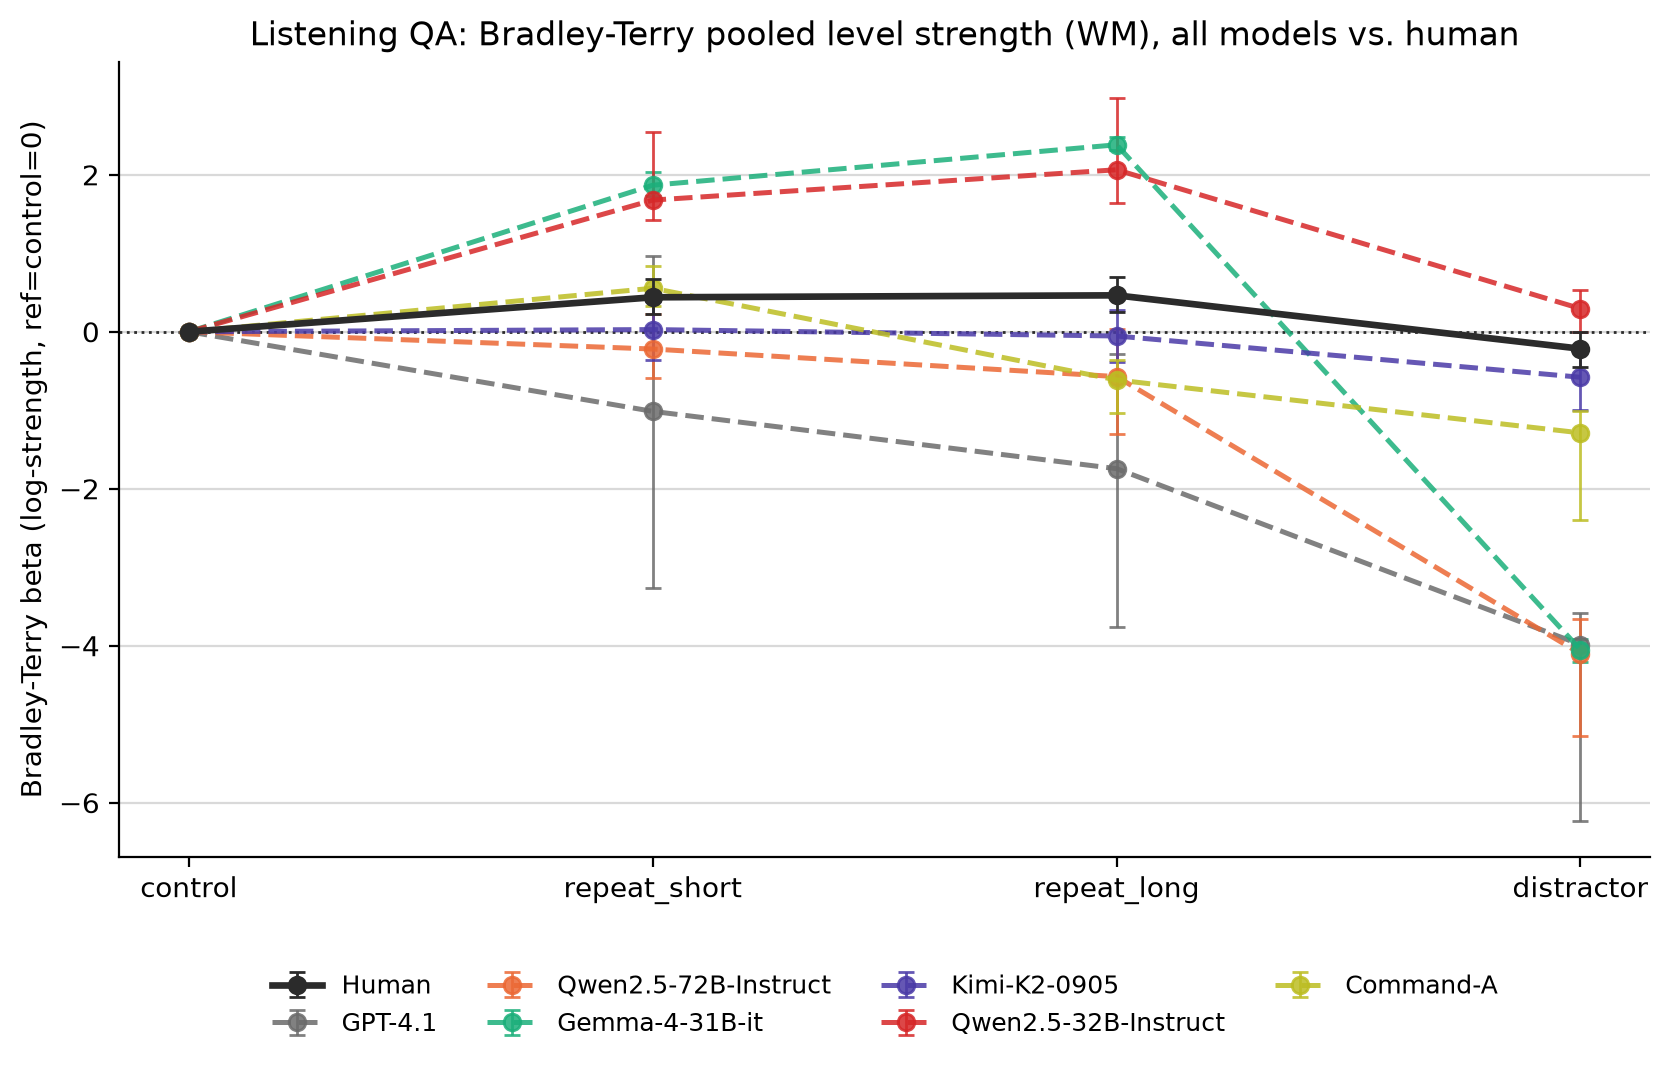
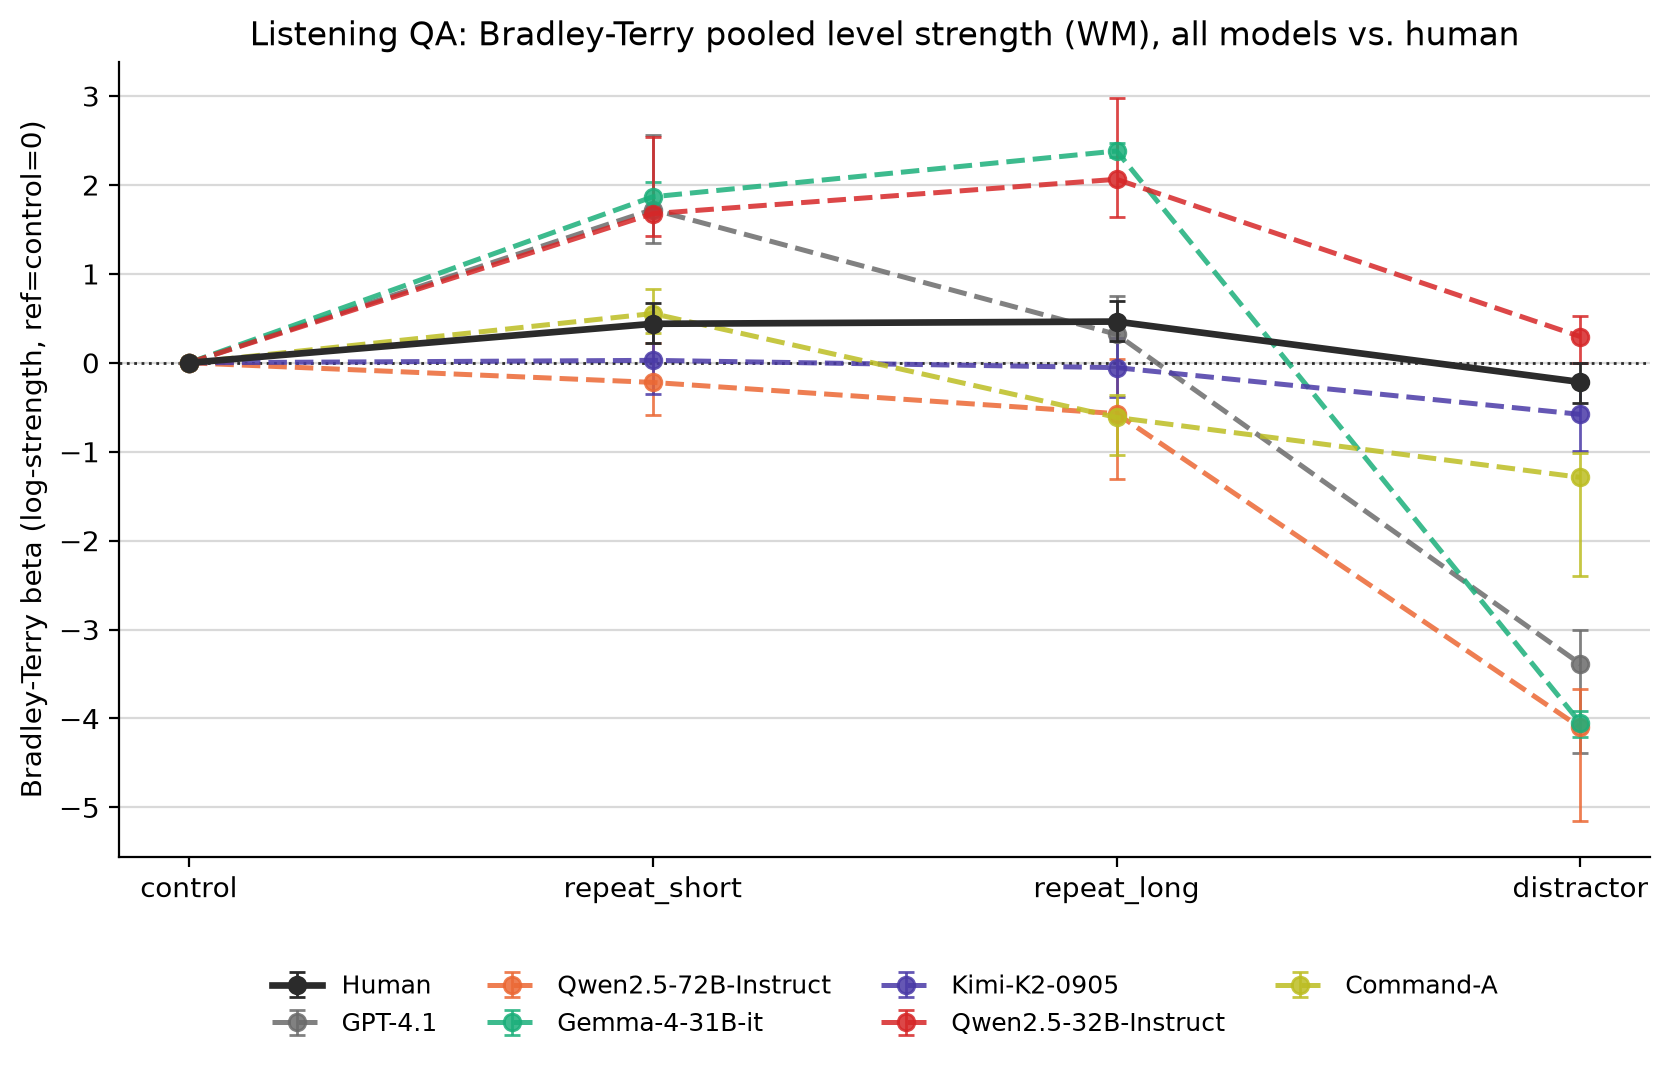
Add hierarchical Bayesian BT (partial pooling); bump GPT-4.1 WM default to n=20
New: application/listening_qa/bayesian_bt_level_strength.py -- proper
hierarchical Bradley-Terry with partial pooling across topics (each topic gets
its own beta_topic_level, drawn from a shared Normal(beta_global_level, tau)
prior with tau estimated from the data), fit via PyMC/NUTS. Unlike the earlier
full-pooling WLS+bootstrap version, this correctly propagates topic-to-topic
heterogeneity (tau) into the credible interval on beta_global, rather than
only accounting for per-comparison sampling noise.

Diagnosed why credible intervals were wide: tau (topic heterogeneity) is 3-24x
larger for every model than for human, and per-comparison noise (sigma_obs) is
similarly inflated -- confirmed nearly all 6 models are already within ~20% of
their tau-floor CI width, so more samples/cell would buy little (this is a
topic-heterogeneity problem, not a sampling problem) for the 5 models already
at n=20. GPT-4.1's WM run was the outlier at n=3 and had the most headroom;
its default path now points to the n=20 rerun (n20_stream_sentence_cap30),
which flips its repeat_short/repeat_long point estimates from disagreeing with
human direction (n=3, likely small-sample noise) to agreeing with it (n=20) --
propagated to plot_listening_qa_alignment_slopeplots.py's MODELS list, which
several other comparison scripts import, and regenerated all downstream plots.

Claude-Session: https://claude.ai/code/session_01MUstYkbzcGijHmqYVCh4C7

diff --git a/application/listening_qa/bayesian_bt_level_strength.py b/application/listening_qa/bayesian_bt_level_strength.py
@@ -1,0 +1,203 @@
+#!/usr/bin/env python3
+"""Hierarchical (partial-pooling) Bayesian Bradley-Terry level strength.
+
+``bradley_terry_level_strength.fit_bt_strengths`` does FULL pooling: one
+beta_level shared exactly across all 4 topics, fit by weighted least squares,
+with uncertainty from a nonparametric bootstrap bolted on afterward.
+
+This module instead fits a proper hierarchical model with PARTIAL pooling:
+each topic gets its own beta_topic_level, drawn from a shared Normal prior
+centered on a global beta_level with learned spread tau --
+
+    beta_global_level ~ Normal(0, 2)                      (per level, ref=0)
+    tau               ~ HalfNormal(1)                      (shared)
+    beta_topic_level  ~ Normal(beta_global_level, tau)      (per topic x level)
+    logit(PS_topic(i,j)) ~ Normal(beta_topic_i - beta_topic_j, sigma_obs / sqrt(weight))
+
+Topics with more/cleaner data pull tau's implied shrinkage less; sparse or
+noisy topics get pulled harder toward the shared beta_global. tau itself is
+estimated from the data, so the amount of pooling is adaptive rather than
+fixed like the "full pooling" (one shared value) vs "no pooling" (independent
+per-topic fits) extremes.
+
+Returns posterior mean beta_global_level + 95% credible interval (highest
+density interval isn't computed here for simplicity -- percentile interval).
+
+Usage:
+    python -m application.listening_qa.bayesian_bt_level_strength
+"""
+from __future__ import annotations
+
+import json
+from datetime import datetime, timezone
+from itertools import combinations
+from pathlib import Path
+from typing import Any
+
+import numpy as np
+import pymc as pm
+import pytensor.tensor as pt
+
+from .bradley_terry_level_strength import PS_CLIP, REFERENCE_LEVEL, _ps_and_weight
+from .level_pair_preference_alignment import (
+    CONDITIONS,
+    DEFAULT_HUMAN_CSV,
+    LEVELS,
+    load_human_topic_level_accuracies,
+    load_llm_topic_level_condition,
+)
+from .mean_level_pair_alignment import DEFAULT_STANDALONE_JSONL, DEFAULT_WM_JSONL
+
+REPO_ROOT = Path(__file__).resolve().parents[2]
+
+
+def _logit(p: float) -> float:
+    p = min(max(p, PS_CLIP), 1.0 - PS_CLIP)
+    return float(np.log(p / (1.0 - p)))
+
+
+def fit_bt_strengths_bayesian(
+    topic_level_values: dict[str, dict[str, list[float]]],
+    topics: list[str],
+    *,
+    levels: tuple[str, ...] = LEVELS,
+    reference_level: str = REFERENCE_LEVEL,
+    draws: int = 1000,
+    tune: int = 1000,
+    chains: int = 2,
+    seed: int = 42,
+    return_hyperparams: bool = False,
+) -> tuple[dict[str, float], dict[str, tuple[float, float]]] | tuple[dict[str, float], dict[str, tuple[float, float]], dict[str, float]] | None:
+    """Partial-pooling hierarchical Bradley-Terry fit. Returns
+    (posterior_mean_beta_global, 95%_credible_interval) per level, or None if
+    there isn't enough data to build any comparison rows. If
+    ``return_hyperparams``, also returns a dict with posterior means of
+    ``tau`` (topic-to-topic spread) and ``sigma_obs`` (per-comparison noise
+    scale) -- diagnostic for what's driving a wide/narrow credible interval."""
+    free_levels = [lv for lv in levels if lv != reference_level]
+    n_free = len(free_levels)
+    ref_idx = levels.index(reference_level)
+
+    topic_idx_list: list[int] = []
+    i_idx_list: list[int] = []
+    j_idx_list: list[int] = []
+    y_list: list[float] = []
+    w_list: list[float] = []
+
+    topic_index = {t: ti for ti, t in enumerate(topics)}
+    level_index = {lv: li for li, lv in enumerate(levels)}
+
+    for topic in topics:
+        cell = topic_level_values.get(topic) or {}
+        for li, lj in combinations(levels, 2):
+            out = _ps_and_weight(cell.get(li), cell.get(lj))
+            if out is None:
+                continue
+            ps, weight = out
+            topic_idx_list.append(topic_index[topic])
+            i_idx_list.append(level_index[li])
+            j_idx_list.append(level_index[lj])
+            y_list.append(_logit(ps))
+            w_list.append(weight)
+
+    if not y_list:
+        return None
+
+    n_topics = len(topics)
+    topic_idx_arr = np.asarray(topic_idx_list, dtype="int64")
+    i_idx_arr = np.asarray(i_idx_list, dtype="int64")
+    j_idx_arr = np.asarray(j_idx_list, dtype="int64")
+    y_arr = np.asarray(y_list, dtype=np.float64)
+    w_arr = np.asarray(w_list, dtype=np.float64)
+
+    with pm.Model():
+        beta_global_free = pm.Normal("beta_global_free", mu=0.0, sigma=2.0, shape=n_free)
+        tau = pm.HalfNormal("tau", sigma=1.0)
+        beta_topic_free = pm.Normal(
+            "beta_topic_free", mu=beta_global_free, sigma=tau, shape=(n_topics, n_free)
+        )
+
+        cols = []
+        free_i = 0
+        for li in range(len(levels)):
+            if li == ref_idx:
+                cols.append(pt.zeros((n_topics, 1)))
+            else:
+                cols.append(beta_topic_free[:, free_i : free_i + 1])
+                free_i += 1
+        beta_topic_full = pt.concatenate(cols, axis=1)  # (n_topics, n_levels)
+
+        diff = beta_topic_full[topic_idx_arr, i_idx_arr] - beta_topic_full[topic_idx_arr, j_idx_arr]
+        sigma_obs = pm.HalfNormal("sigma_obs", sigma=1.0)
+        obs_sigma = sigma_obs / pt.sqrt(w_arr)
+        pm.Normal("y_obs", mu=diff, sigma=obs_sigma, observed=y_arr)
+
+        idata = pm.sample(
+            draws=draws, tune=tune, chains=chains, target_accept=0.9,
+            progressbar=False, random_seed=seed,
+        )
+
+    post = idata.posterior["beta_global_free"].values.reshape(-1, n_free)
+    means: dict[str, float] = {reference_level: 0.0}
+    ci: dict[str, tuple[float, float]] = {reference_level: (0.0, 0.0)}
+    for fi, lv in enumerate(free_levels):
+        means[lv] = float(post[:, fi].mean())
+        lo, hi = np.percentile(post[:, fi], [2.5, 97.5])
+        ci[lv] = (float(lo), float(hi))
+    if return_hyperparams:
+        hyper = {
+            "tau_mean": float(idata.posterior["tau"].values.mean()),
+            "sigma_obs_mean": float(idata.posterior["sigma_obs"].values.mean()),
+            "n_rows": len(y_list),
+        }
+        return means, ci, hyper
+    return means, ci
+
+
+def main() -> None:
+    import argparse
+
+    ap = argparse.ArgumentParser(description=__doc__)
+    ap.add_argument("--standalone-jsonl", type=Path, default=DEFAULT_STANDALONE_JSONL)
+    ap.add_argument("--wm-jsonl", type=Path, default=DEFAULT_WM_JSONL)
+    ap.add_argument("--human-csv", type=Path, default=DEFAULT_HUMAN_CSV)
+    ap.add_argument("--out-json", type=Path, default=None)
+    args = ap.parse_args()
+
+    human = load_human_topic_level_accuracies(args.human_csv)
+    llm = load_llm_topic_level_condition(args.standalone_jsonl, args.wm_jsonl)
+    topics = sorted(set(human.keys()) | {t for c in CONDITIONS for t in llm.get(c, {}).keys()})
+
+    result: dict[str, Any] = {"topics": topics, "reference_level": REFERENCE_LEVEL, "conditions": {}}
+
+    print("Fitting hierarchical Bayesian Bradley-Terry (human)...")
+    fit = fit_bt_strengths_bayesian(human, topics)
+    if fit is not None:
+        beta, ci = fit
+        result["conditions"]["human"] = {"beta": beta, "ci": ci}
+        for lv in LEVELS:
+            print(f"  {lv}: beta={beta[lv]:.3f}  95% CI=[{ci[lv][0]:.3f}, {ci[lv][1]:.3f}]")
+
+    for c in CONDITIONS:
+        print(f"Fitting hierarchical Bayesian Bradley-Terry ({c})...")
+        fit = fit_bt_strengths_bayesian(llm.get(c, {}), topics)
+        if fit is None:
+            print(f"  {c}: insufficient data")
+            result["conditions"][c] = {"beta": None, "ci": None}
+            continue
+        beta, ci = fit
+        result["conditions"][c] = {"beta": beta, "ci": ci}
+        for lv in LEVELS:
+            print(f"  {lv}: beta={beta[lv]:.3f}  95% CI=[{ci[lv][0]:.3f}, {ci[lv][1]:.3f}]")
+
+    stamp = datetime.now(timezone.utc).strftime("%Y%m%dT%H%M%SZ")
+    out_path = args.out_json or (
+        REPO_ROOT / "application" / "comparisons" / f"listening_bayesian_bt_level_strength_{stamp}.json"
+    )
+    out_path.parent.mkdir(parents=True, exist_ok=True)
+    out_path.write_text(json.dumps(result, ensure_ascii=False, indent=2, allow_nan=False) + "\n", encoding="utf-8")
+    print(f"\nWrote {out_path}")
+
+
+if __name__ == "__main__":
+    main()

diff --git a/application/plot_listening_qa_bt_level_strength_bayesian_slopeplot.py b/application/plot_listening_qa_bt_level_strength_bayesian_slopeplot.py
@@ -1,0 +1,121 @@
+#!/usr/bin/env python3
+"""Slope plot of hierarchical (partial-pooling) Bayesian Bradley-Terry level
+strength (listening QA), all 6 models' WM condition + human -- same
+MODELS/MODEL_COLORS/line style as ``plot_listening_qa_bt_level_strength_all_models.py``,
+but the beta/CI come from ``bayesian_bt_level_strength.fit_bt_strengths_bayesian``
+(partial pooling across topics via a shared hierarchical prior) instead of
+the WLS point estimate + bootstrap CI (full pooling, one shared beta per level).
+
+Usage:
+    python -m application.plot_listening_qa_bt_level_strength_bayesian_slopeplot
+"""
+from __future__ import annotations
+
+import sys
+from pathlib import Path
+
+import matplotlib
+import numpy as np
+
+matplotlib.use("Agg")
+import matplotlib.pyplot as plt
+
+REPO_ROOT = Path(__file__).resolve().parents[1]
+if str(REPO_ROOT) not in sys.path:
+    sys.path.insert(0, str(REPO_ROOT))
+
+from application.listening_qa.bayesian_bt_level_strength import fit_bt_strengths_bayesian  # noqa: E402
+from application.listening_qa.bradley_terry_level_strength import LEVELS, REFERENCE_LEVEL  # noqa: E402
+from application.listening_qa.level_pair_preference_alignment import (  # noqa: E402
+    CONDITIONS,
+    load_human_topic_level_accuracies,
+    load_llm_topic_level_condition,
+)
+from application.plot_listening_qa_alignment_slopeplots import (  # noqa: E402
+    GRID,
+    HUMAN_CSV,
+    INK,
+    MODEL_COLORS,
+    MODELS,
+)
+
+
+def compute_all_model_betas_bayesian() -> tuple[dict[str, dict[str, float]], dict[str, dict[str, tuple[float, float]]]]:
+    human = load_human_topic_level_accuracies(HUMAN_CSV)
+    betas: dict[str, dict[str, float]] = {}
+    cis: dict[str, dict[str, tuple[float, float]]] = {}
+
+    print("Fitting hierarchical Bayesian Bradley-Terry (human)...")
+    topics_all = sorted(human.keys())
+    fit = fit_bt_strengths_bayesian(human, topics_all)
+    if fit is not None:
+        betas["Human"], cis["Human"] = fit
+
+    for name, prompt_jsonl, wm_jsonl in MODELS:
+        print(f"Fitting hierarchical Bayesian Bradley-Terry ({name}, WM)...")
+        llm = load_llm_topic_level_condition(prompt_jsonl, wm_jsonl)
+        topics = sorted(set(human.keys()) | {t for c in CONDITIONS for t in llm.get(c, {}).keys()})
+        fit = fit_bt_strengths_bayesian(llm.get("WM", {}), topics)
+        if fit is None:
+            print(f"  {name}: insufficient WM data, skipping")
+            continue
+        betas[name], cis[name] = fit
+        for lv in LEVELS:
+            b = betas[name][lv]
+            lo, hi = cis[name][lv]
+            print(f"  {lv}: beta={b:.3f}  95% CI=[{lo:.3f}, {hi:.3f}]")
+
+    return betas, cis
+
+
+def main() -> None:
+    out_dir = REPO_ROOT / "application" / "comparisons"
+    out_dir.mkdir(parents=True, exist_ok=True)
+
+    betas, cis = compute_all_model_betas_bayesian()
+
+    fig, ax = plt.subplots(figsize=(9.5, 5.5))
+    x = np.arange(len(LEVELS), dtype=np.float64)
+    series = ["Human"] + [m[0] for m in MODELS]
+    present = [name for name in series if name in betas]
+    n_series = len(present)
+    jitter_width = 0.42
+
+    for si, name in enumerate(present):
+        color = "#2b2b2b" if name == "Human" else MODEL_COLORS.get(name, "#888888")
+        offset = (si - (n_series - 1) / 2) * (jitter_width / max(n_series - 1, 1))
+        xs = x + offset
+        ys = [betas[name][lv] for lv in LEVELS]
+        lo_err = [max(0.0, betas[name][lv] - cis[name][lv][0]) for lv in LEVELS]
+        hi_err = [max(0.0, cis[name][lv][1] - betas[name][lv]) for lv in LEVELS]
+        lw = 2.4 if name == "Human" else 1.8
+        ls = "-" if name == "Human" else "--"
+        ax.errorbar(
+            xs, ys, yerr=[lo_err, hi_err], fmt="o" + ls, markersize=6, linewidth=lw,
+            color=color, ecolor=color, elinewidth=1.2, capsize=3, alpha=1.0 if name == "Human" else 0.9,
+            label=name, zorder=3 if name == "Human" else 2,
+        )
+
+    ax.axhline(0.0, color=INK, linestyle=":", linewidth=1, zorder=1)
+    for boundary in (x[:-1] + 0.5):
+        ax.axvline(boundary, color=GRID, linewidth=1.0, zorder=1)
+    ax.set_xlim(x[0] - 0.5, x[-1] + 0.5)
+    ax.set_xticks(x)
+    ax.set_xticklabels(LEVELS)
+    ax.set_ylabel(f"Bayesian BT beta, partial pooling (log-strength, ref={REFERENCE_LEVEL}=0)")
+    ax.set_title("Listening QA: hierarchical Bayesian Bradley-Terry level strength (WM), all models vs. human")
+    ax.grid(axis="y", color=GRID, linewidth=0.8, zorder=0)
+    ax.set_axisbelow(True)
+    for spine in ("top", "right"):
+        ax.spines[spine].set_visible(False)
+    ax.legend(loc="upper center", bbox_to_anchor=(0.5, -0.12), ncol=4, frameon=False, fontsize=9)
+
+    fig.tight_layout()
+    out_path = out_dir / "listening_qa_bt_level_strength_bayesian_slopeplot.png"
+    fig.savefig(out_path, dpi=200, bbox_inches="tight")
+    plt.close(fig)
+    print(f"\nSaved plot to {out_path}")
+
+
+if __name__ == "__main__":
+    main()

diff --git a/application/plot_listening_qa_alignment_slopeplots.py b/application/plot_listening_qa_alignment_slopeplots.py
@@ -62,7 +62,7 @@ MODELS: list[tuple[str, Path, Path]] = [
     (
         "GPT-4.1",
         REPO_ROOT / "runs/prompting/gpt-4.1/20260716T155755Z/tasks/application_listening_qa_full_grid.jsonl",
-        REPO_ROOT / "runs/compactor/gpt-4.1/20260720T211617Z/tasks/wm_application_listening_qa_full_grid.jsonl",
+        REPO_ROOT / "runs/compactor/gpt-4.1/n20_stream_sentence_cap30/tasks/wm_application_listening_qa_full_grid.jsonl",
     ),
     (
         "Qwen2.5-72B-Instruct",

diff --git a/application/listening_qa/mean_level_pair_alignment.py b/application/listening_qa/mean_level_pair_alignment.py
@@ -51,7 +51,7 @@ DEFAULT_STANDALONE_JSONL = (
     / "tasks" / "application_listening_qa_full_grid.jsonl"
 )
 DEFAULT_WM_JSONL = (
-    REPO_ROOT / "runs" / "compactor" / "gpt-4.1" / "20260720T211617Z"
+    REPO_ROOT / "runs" / "compactor" / "gpt-4.1" / "n20_stream_sentence_cap30"
     / "tasks" / "wm_application_listening_qa_full_grid.jsonl"
 )
 
